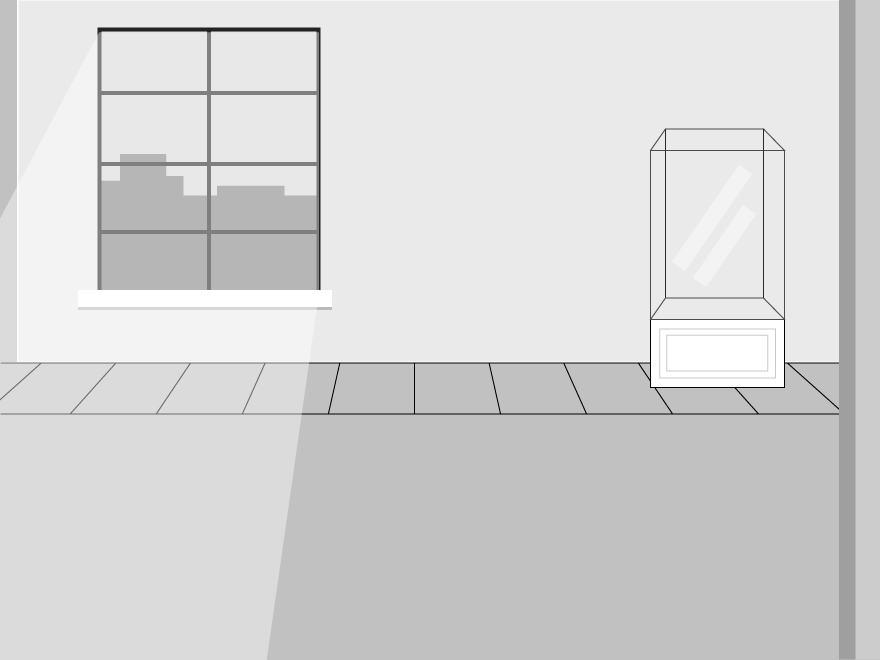
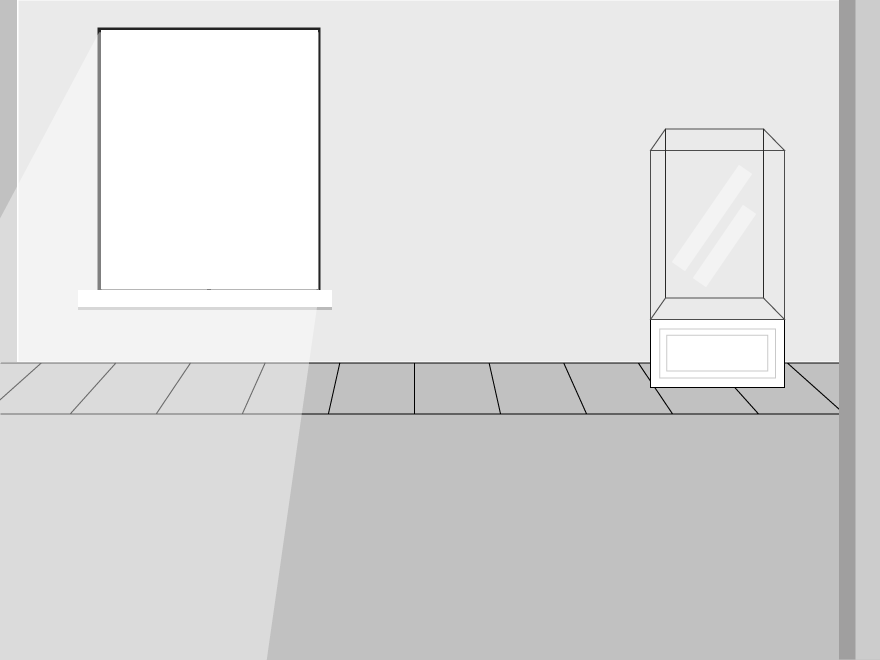
bg/fg

Changed region(s): [[0.092, 0.0303, 0.3682, 0.4545]]

diff --git a/src/scenes/ui.js b/src/scenes/ui.js
@@ -462,7 +462,10 @@ var navigable = function()
     self.cache_unlocked_portholes = [];
     self.cache_unlocked_wildcards = [];
     self.cache_unlocked_inerts    = [];
+
     self.cache_unlocked_drawables = [];
+    self.cache_unlocked_bg_drawables = [];
+    self.cache_unlocked_fg_drawables = [];
 
     for(var i = 0; i < self.room.persons.length; i++)
       if(!querylocked(self.room.persons[i])) self.cache_unlocked_persons.push(self.room.persons[i]);
@@ -485,7 +488,14 @@ var navigable = function()
     for(var i = 0; i < self.cache_unlocked_wildcards.length; i++)
     { var j = 0; while(j < self.cache_unlocked_drawables.length && self.cache_unlocked_wildcards[i].z >= self.cache_unlocked_drawables[j]) j++; self.cache_unlocked_drawables.splice(j,0,self.cache_unlocked_wildcards[i]); }
     for(var i = 0; i < self.cache_unlocked_inerts.length; i++)
-    { var j = 0; while(j < self.cache_unlocked_drawables.length && self.cache_unlocked_inerts[i].z >= self.cache_unlocked_drawables[j]) j++; self.cache_unlocked_drawables.splice(j,0,self.cache_unlocked_inerts[i]); }
+    {
+    if(self.cache_unlocked_inerts[i].g < 0)
+    { var j = 0; while(j < self.cache_unlocked_bg_drawables.length && self.cache_unlocked_inerts[i].z >= self.cache_unlocked_bg_drawables[j]) j++; self.cache_unlocked_bg_drawables.splice(j,0,self.cache_unlocked_inerts[i]); }
+    else if(self.cache_unlocked_inerts[i].g > 0)
+    { var j = 0; while(j < self.cache_unlocked_fg_drawables.length && self.cache_unlocked_inerts[i].z >= self.cache_unlocked_fg_drawables[j]) j++; self.cache_unlocked_fg_drawables.splice(j,0,self.cache_unlocked_inerts[i]); }
+    else
+    { var j = 0; while(j < self.cache_unlocked_drawables.length    && self.cache_unlocked_inerts[i].z >= self.cache_unlocked_drawables[j])    j++; self.cache_unlocked_drawables.splice(j,0,self.cache_unlocked_inerts[i]); }
+    }
   }
 
   self.wpt_in_navigable = function(wx,wy,obj)
@@ -712,14 +722,36 @@ var navigable = function()
     for(var i = 0; i < self.cache_unlocked_portholes.length; i++) { self.cache_unlocked_portholes[i].animcycle_inst.tick(); screenSpace(my_camera, canv, self.cache_unlocked_portholes[i]); }
     for(var i = 0; i < self.cache_unlocked_wildcards.length; i++) { self.cache_unlocked_wildcards[i].animcycle_inst.tick(); screenSpace(my_camera, canv, self.cache_unlocked_wildcards[i]); }
     for(var i = 0; i < self.cache_unlocked_inerts.length;    i++) { self.cache_unlocked_inerts[i].animcycle_inst.tick();    screenSpace(my_camera, canv, self.cache_unlocked_inerts[i]); }
+
+    for(var i = 0; i < self.cache_unlocked_bg_drawables.length;    i++)
+    {
+      var d = self.cache_unlocked_bg_drawables[i];
+      var m = (d.g*d.g)/5;
+      d.dx = d.x + (my_camera.wx-d.wx)*m;
+      d.dy = d.y - (my_camera.wy-d.wy)*m;
+      d.dw = d.w;
+      d.dh = d.h;
+    }
+    for(var i = 0; i < self.cache_unlocked_fg_drawables.length;    i++)
+    {
+      var d = self.cache_unlocked_fg_drawables[i];
+      var m = (d.g*d.g);
+      d.dx = d.x - (my_camera.wx-d.wx)*m;
+      d.dy = d.y + (my_camera.wy-d.wy)*m;
+      d.dw = d.w;
+      d.dh = d.h;
+    }
   }
 
   self.draw = function()
   {
+    for(var i = 0; i < self.cache_unlocked_bg_drawables.length; i++) { var d = self.cache_unlocked_bg_drawables[i]; ctx.drawImage(d.animcycle_inst.img, d.dx, d.dy, d.dw, d.dh); }
     ctx.drawImage(self.room.animcycle_inst.img,self.room.x,self.room.y,self.room.w,self.room.h);
     for(var i = 0; i < self.cache_unlocked_drawables.length; i++) drawImageBox(self.cache_unlocked_drawables[i].animcycle_inst.img, self.cache_unlocked_drawables[i], ctx);
 
     my_avatar.draw(self.pt_shade(my_avatar.wx,my_avatar.wy),self.room.light_color,self.room.shadow_color,self.room.ambient_color,);
+
+    for(var i = 0; i < self.cache_unlocked_fg_drawables.length; i++) { var d = self.cache_unlocked_fg_drawables[i]; ctx.drawImage(d.animcycle_inst.img, d.dx, d.dy, d.dw, d.dh); }
 
     if(DEBUG)
     {

diff --git a/engine/data.js b/engine/data.js
@@ -17,6 +17,7 @@ var tmp_view;
 var tmp_zone;
 var tmp_porthole;
 var tmp_wildcard;
+var tmp_inert;
 
 var init_levels = function()
 {
@@ -113,6 +114,19 @@ tmp_animcycle.frames.push(GenImg("assets/data/levels/tunic/animcycles/avatar_wal
 }
 tmp_level.animcycles.push(tmp_animcycle);
 tmp_animcycle = new animcycle();
+tmp_animcycle.id = "bg";
+tmp_animcycle.fqid = "tunic.bg";
+{
+tmp_animcycle.w = 0;
+tmp_animcycle.h = 0;
+tmp_animcycle.frame_t = 10;
+tmp_animcycle.offset_t = 0;
+
+tmp_animcycle.frames = [];
+tmp_animcycle.frames.push(GenImg("assets/data/levels/tunic/animcycles/bg/0.png"));
+}
+tmp_level.animcycles.push(tmp_animcycle);
+tmp_animcycle = new animcycle();
 tmp_animcycle.id = "cleaner";
 tmp_animcycle.fqid = "tunic.cleaner";
 {
@@ -149,6 +163,19 @@ tmp_animcycle.offset_t = 0;
 
 tmp_animcycle.frames = [];
 tmp_animcycle.frames.push(GenImg("assets/data/levels/tunic/animcycles/ecologist/0.png"));
+}
+tmp_level.animcycles.push(tmp_animcycle);
+tmp_animcycle = new animcycle();
+tmp_animcycle.id = "fg";
+tmp_animcycle.fqid = "tunic.fg";
+{
+tmp_animcycle.w = 0;
+tmp_animcycle.h = 0;
+tmp_animcycle.frame_t = 10;
+tmp_animcycle.offset_t = 0;
+
+tmp_animcycle.frames = [];
+tmp_animcycle.frames.push(GenImg("assets/data/levels/tunic/animcycles/fg/0.png"));
 }
 tmp_level.animcycles.push(tmp_animcycle);
 tmp_animcycle = new animcycle();
@@ -1734,6 +1761,46 @@ tmp_porthole.notlocks = [
 tmp_porthole.animcycle_inst = gen_animcycle_inst(tmp_porthole.animcycle_id,tmp_level.animcycles);
 }
 tmp_room.portholes.push(tmp_porthole);
+tmp_inert = new inert();
+tmp_inert.id = "bg";
+tmp_inert.fqid = "tunic.madison.historicalsociety.closet.bg";
+{
+tmp_inert.ww = 880;
+tmp_inert.wh = 660;
+tmp_inert.wx = 0;
+tmp_inert.wy = 0;
+tmp_inert.wz = 0;
+tmp_inert.g = -1;
+tmp_inert.animcycle_id = "bg";
+tmp_inert.noteworthy = false;
+tmp_inert.locks = [
+];
+tmp_inert.notlocks = [
+];
+
+tmp_inert.animcycle_inst = gen_animcycle_inst(tmp_inert.animcycle_id,tmp_level.animcycles);
+}
+tmp_room.inerts.push(tmp_inert);
+tmp_inert = new inert();
+tmp_inert.id = "fg";
+tmp_inert.fqid = "tunic.madison.historicalsociety.closet.fg";
+{
+tmp_inert.ww = 880;
+tmp_inert.wh = 660;
+tmp_inert.wx = 0;
+tmp_inert.wy = 0;
+tmp_inert.wz = 0;
+tmp_inert.g = 1;
+tmp_inert.animcycle_id = "fg";
+tmp_inert.noteworthy = false;
+tmp_inert.locks = [
+];
+tmp_inert.notlocks = [
+];
+
+tmp_inert.animcycle_inst = gen_animcycle_inst(tmp_inert.animcycle_id,tmp_level.animcycles);
+}
+tmp_room.inerts.push(tmp_inert);
 }
 tmp_scene.rooms.push(tmp_room);
 tmp_room = new room();
@@ -1842,6 +1909,26 @@ tmp_porthole.notlocks = [
 tmp_porthole.animcycle_inst = gen_animcycle_inst(tmp_porthole.animcycle_id,tmp_level.animcycles);
 }
 tmp_room.portholes.push(tmp_porthole);
+tmp_inert = new inert();
+tmp_inert.id = "fg";
+tmp_inert.fqid = "tunic.madison.historicalsociety.entry.fg";
+{
+tmp_inert.ww = 880;
+tmp_inert.wh = 660;
+tmp_inert.wx = 0;
+tmp_inert.wy = 0;
+tmp_inert.wz = 0;
+tmp_inert.g = 1;
+tmp_inert.animcycle_id = "fg";
+tmp_inert.noteworthy = false;
+tmp_inert.locks = [
+];
+tmp_inert.notlocks = [
+];
+
+tmp_inert.animcycle_inst = gen_animcycle_inst(tmp_inert.animcycle_id,tmp_level.animcycles);
+}
+tmp_room.inerts.push(tmp_inert);
 }
 tmp_scene.rooms.push(tmp_room);
 tmp_room = new room();

diff --git a/src/scenes/data.js b/src/scenes/data.js
@@ -17,6 +17,7 @@ var tmp_view;
 var tmp_zone;
 var tmp_porthole;
 var tmp_wildcard;
+var tmp_inert;
 
 var init_levels = function()
 {
@@ -113,6 +114,19 @@ tmp_animcycle.frames.push(GenImg("assets/data/levels/tunic/animcycles/avatar_wal
 }
 tmp_level.animcycles.push(tmp_animcycle);
 tmp_animcycle = new animcycle();
+tmp_animcycle.id = "bg";
+tmp_animcycle.fqid = "tunic.bg";
+{
+tmp_animcycle.w = 0;
+tmp_animcycle.h = 0;
+tmp_animcycle.frame_t = 10;
+tmp_animcycle.offset_t = 0;
+
+tmp_animcycle.frames = [];
+tmp_animcycle.frames.push(GenImg("assets/data/levels/tunic/animcycles/bg/0.png"));
+}
+tmp_level.animcycles.push(tmp_animcycle);
+tmp_animcycle = new animcycle();
 tmp_animcycle.id = "cleaner";
 tmp_animcycle.fqid = "tunic.cleaner";
 {
@@ -149,6 +163,19 @@ tmp_animcycle.offset_t = 0;
 
 tmp_animcycle.frames = [];
 tmp_animcycle.frames.push(GenImg("assets/data/levels/tunic/animcycles/ecologist/0.png"));
+}
+tmp_level.animcycles.push(tmp_animcycle);
+tmp_animcycle = new animcycle();
+tmp_animcycle.id = "fg";
+tmp_animcycle.fqid = "tunic.fg";
+{
+tmp_animcycle.w = 0;
+tmp_animcycle.h = 0;
+tmp_animcycle.frame_t = 10;
+tmp_animcycle.offset_t = 0;
+
+tmp_animcycle.frames = [];
+tmp_animcycle.frames.push(GenImg("assets/data/levels/tunic/animcycles/fg/0.png"));
 }
 tmp_level.animcycles.push(tmp_animcycle);
 tmp_animcycle = new animcycle();
@@ -1734,6 +1761,46 @@ tmp_porthole.notlocks = [
 tmp_porthole.animcycle_inst = gen_animcycle_inst(tmp_porthole.animcycle_id,tmp_level.animcycles);
 }
 tmp_room.portholes.push(tmp_porthole);
+tmp_inert = new inert();
+tmp_inert.id = "bg";
+tmp_inert.fqid = "tunic.madison.historicalsociety.closet.bg";
+{
+tmp_inert.ww = 880;
+tmp_inert.wh = 660;
+tmp_inert.wx = 0;
+tmp_inert.wy = 0;
+tmp_inert.wz = 0;
+tmp_inert.g = -1;
+tmp_inert.animcycle_id = "bg";
+tmp_inert.noteworthy = false;
+tmp_inert.locks = [
+];
+tmp_inert.notlocks = [
+];
+
+tmp_inert.animcycle_inst = gen_animcycle_inst(tmp_inert.animcycle_id,tmp_level.animcycles);
+}
+tmp_room.inerts.push(tmp_inert);
+tmp_inert = new inert();
+tmp_inert.id = "fg";
+tmp_inert.fqid = "tunic.madison.historicalsociety.closet.fg";
+{
+tmp_inert.ww = 880;
+tmp_inert.wh = 660;
+tmp_inert.wx = 0;
+tmp_inert.wy = 0;
+tmp_inert.wz = 0;
+tmp_inert.g = 1;
+tmp_inert.animcycle_id = "fg";
+tmp_inert.noteworthy = false;
+tmp_inert.locks = [
+];
+tmp_inert.notlocks = [
+];
+
+tmp_inert.animcycle_inst = gen_animcycle_inst(tmp_inert.animcycle_id,tmp_level.animcycles);
+}
+tmp_room.inerts.push(tmp_inert);
 }
 tmp_scene.rooms.push(tmp_room);
 tmp_room = new room();
@@ -1842,6 +1909,26 @@ tmp_porthole.notlocks = [
 tmp_porthole.animcycle_inst = gen_animcycle_inst(tmp_porthole.animcycle_id,tmp_level.animcycles);
 }
 tmp_room.portholes.push(tmp_porthole);
+tmp_inert = new inert();
+tmp_inert.id = "fg";
+tmp_inert.fqid = "tunic.madison.historicalsociety.entry.fg";
+{
+tmp_inert.ww = 880;
+tmp_inert.wh = 660;
+tmp_inert.wx = 0;
+tmp_inert.wy = 0;
+tmp_inert.wz = 0;
+tmp_inert.g = 1;
+tmp_inert.animcycle_id = "fg";
+tmp_inert.noteworthy = false;
+tmp_inert.locks = [
+];
+tmp_inert.notlocks = [
+];
+
+tmp_inert.animcycle_inst = gen_animcycle_inst(tmp_inert.animcycle_id,tmp_level.animcycles);
+}
+tmp_room.inerts.push(tmp_inert);
 }
 tmp_scene.rooms.push(tmp_room);
 tmp_room = new room();

diff --git a/src/scenes/template.js b/src/scenes/template.js
@@ -437,6 +437,7 @@ var inert = function()
   self.wx = 0;
   self.wy = 0;
   self.wz = 0;
+  self.g = 0; //"ground", as in "foreground", "background", etc... (bg < 0 < fg)
   self.animcycle_id = "null";
   self.animcycle_inst;
   self.noteworthy = false;
@@ -449,6 +450,11 @@ var inert = function()
   self.x = 0;
   self.y = 0;
   self.z = 0;
+  self.dw = 0;
+  self.dh = 0;
+  self.dx = 0;
+  self.dy = 0;
+  self.dz = 0;
 }
 
 var view = function()
@@ -993,6 +999,7 @@ var print_inert_meta = function(l)
   "tmp_inert.wx = "+l.wx+";\n"+
   "tmp_inert.wy = "+l.wy+";\n"+
   "tmp_inert.wz = "+l.wz+";\n"+
+  "tmp_inert.g = "+l.g+";\n"+
   "tmp_inert.animcycle_id = \""+l.animcycle_id+"\";\n"+
   "tmp_inert.noteworthy = "+l.noteworthy+";\n"+
   "tmp_inert.locks = [\n";
